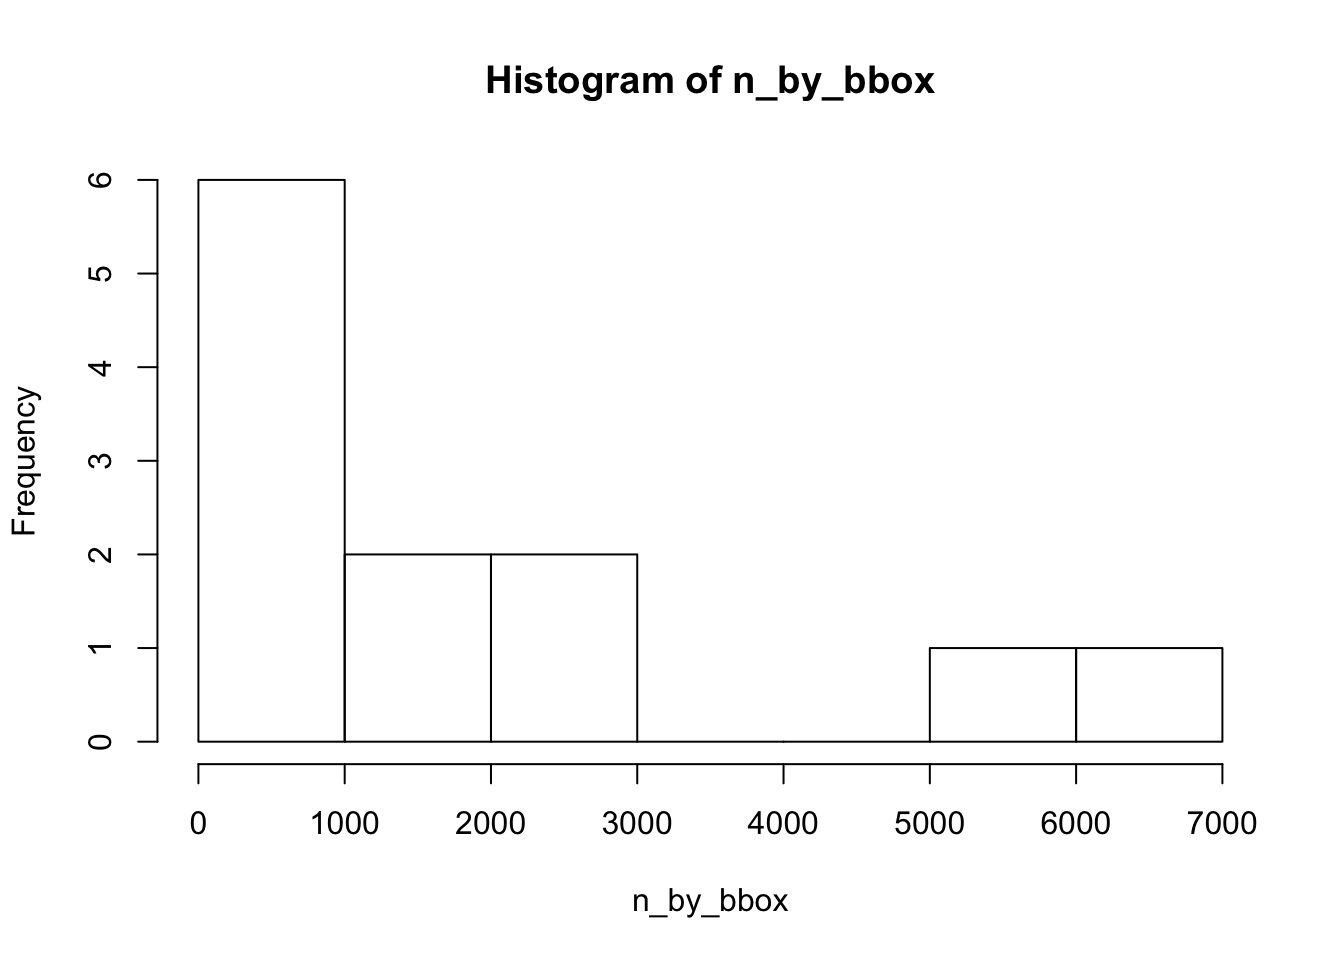
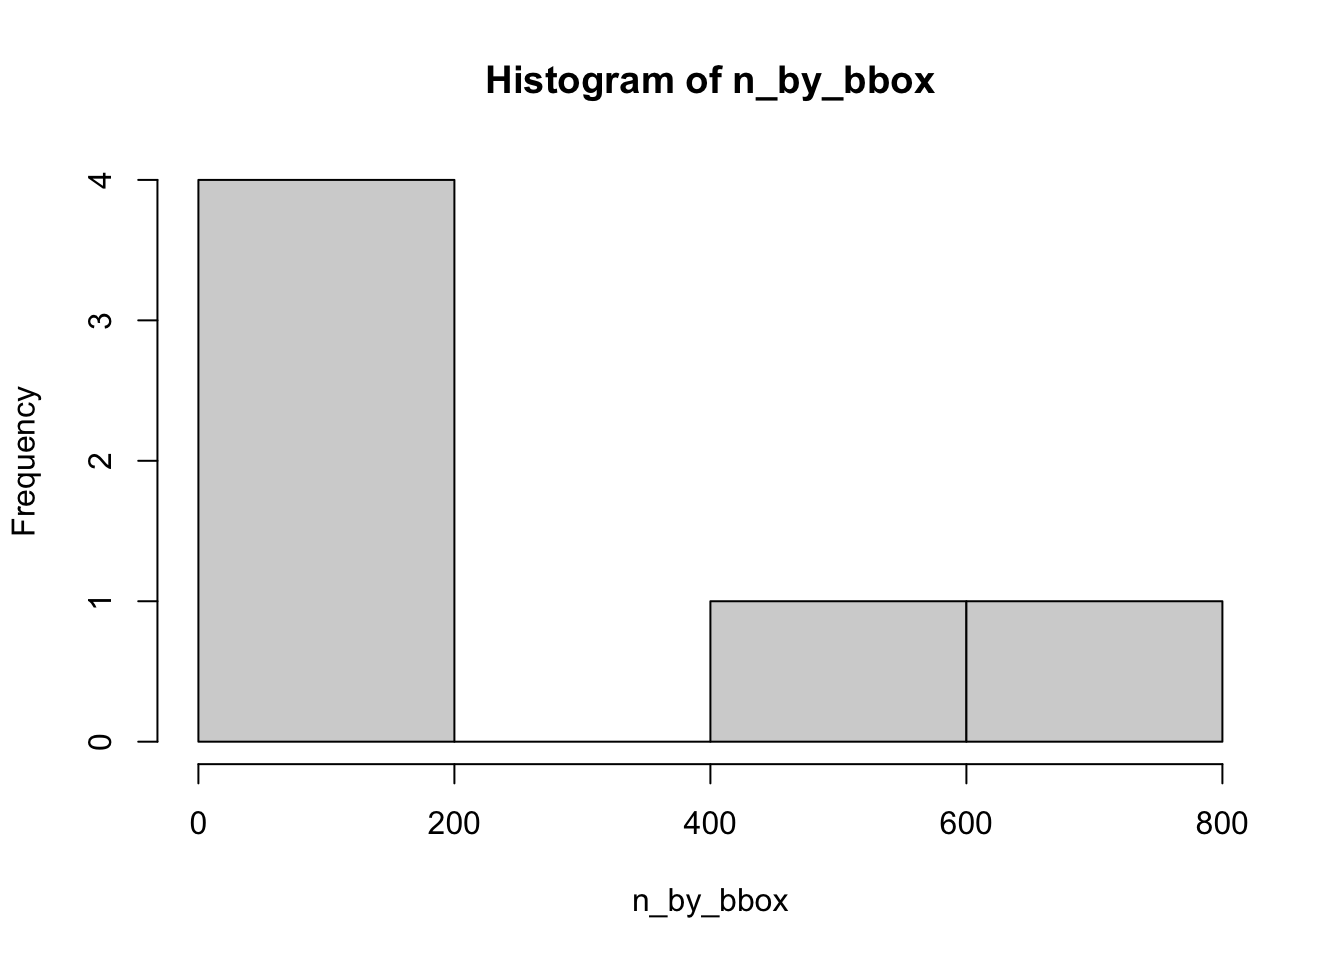
update README

diff --git a/README.md b/README.md
@@ -4,21 +4,31 @@ via API
 
 <!-- README.md is generated from README.Rmd. Please edit that file -->
 
-[![DOI](https://zenodo.org/badge/161494897.svg)](https://zenodo.org/badge/latestdoi/161494897)
+<a href="https://zenodo.org/badge/latestdoi/161494897"
+target="_blank"><img src="https://zenodo.org/badge/161494897.svg"
+alt="DOI" /></a>
 
 `wikimapR` is an R package for accessing the raw vector data from
-Wikimapia via official [Wikimapia API](http://wikimapia.org/api). Map
-data is returned as [Simple Features
-(`sf`)](https://cran.r-project.org/package=sf) objects with some of the
-object details included as nested `lists`.
+Wikimapia via official
+<a href="http://wikimapia.org/api" target="_blank">Wikimapia API</a>.
+Map data is returned as
+<a href="https://cran.r-project.org/package=sf" target="_blank">Simple
+Features (<code>sf</code>)</a> objects with some of the object details
+included as nested `lists`.
 
-WARNING: the package may NOT work for now because of the breaking change in the Wikimapia API. More details at: https://github.com/e-kotov/wikimapR/issues/2 . Using 'example' API key does not work, however everything seems to be working with your a private API key.
+WARNING: the package may NOT work for now because of the breaking change
+in the Wikimapia API. More details at
+<a href="https://github.com/e-kotov/wikimapR/issues/2"
+target="_blank">https://github.com/e-kotov/wikimapR/issues/2</a>. Using
+‘example’ API key does not seem to work, however everything seems to be
+working with private API keys.
 
 **This package is at a VERY alpha stage. Provided ‘as is’. Use with
 caution.**
 
-You may also want to try [a similar package for
-Python](https://github.com/plandex/wikimapia-api-py).
+You may also want to try
+<a href="https://github.com/plandex/wikimapia-api-py" target="_blank">a
+similar package for Python</a>.
 
 ### Installation
 
@@ -26,8 +36,8 @@ To install:
 
 ``` r
 # Install the development version
-# install.packages("devtools")
-devtools::install_github("e-kotov/wikimapR")
+# install.packages("remotes")
+remotes::install_github("e-kotov/wikimapR")
 ```
 
 To load the package and check the version:
@@ -35,35 +45,56 @@ To load the package and check the version:
 ``` r
 library(wikimapR)
 packageVersion("wikimapR")
-#> [1] '0.1.1'
+#> [1] '0.1.2'
+```
+
+Load additional packages:
+
+``` r
+library(sf)
+library(magrittr)
+library(dplyr)
+library(purrr)
+library(progress)
 ```
 
 ### Usage
 
-#### Choose a bbox
-
-Have a look at <https://boundingbox.klokantech.com> and choose a
-bounding box. For example: `49.990525,53.100579,50.37642,53.334931` for
-Samara and it’s surroundings.
+Set your API key. There is the API key ‘example’ that’s used by the
+testing page <a href="https://wikimapia.org/api/?action=examples"
+target="_blank">https://wikimapia.org/api/?action=examples</a>. It is
+limited to one request every 30 seconds. Get your own API key at
+<a href="https://wikimapia.org/api/?action=my_keys"
+target="_blank">https://wikimapia.org/api/?action=my_keys</a> to get up
+to 100 requests in 5 minutes.
 
 ``` r
-bbox <- c(49.990525,53.100579,50.37642,53.334931) # Samara
+# change to your own key
+set_wikimapia_api_key("your_key")
+# clear_wikimapia_api_keys() # you can also clear your API key to use 'example' key instead
+```
+
+#### Choose a bbox
+
+Have a look at <a href="https://boundingbox.klokantech.com"
+target="_blank">https://boundingbox.klokantech.com</a> and choose a
+bounding box. For example: `-1.617122,53.764541,-1.467519,53.831568` for
+Leeds and it’s surroundings.
+
+``` r
+bbox <- c(-1.669629,53.739816,-1.422465,53.869239) # Leeds
 ```
 
 #### Get the number of objects in this bounding box
 
-Use [`box`](http://wikimapia.org/api#oldbox) API function to get the
-number of features on your area of interest.
+Use <a href="http://wikimapia.org/api#oldbox"
+target="_blank"><code>box</code></a> API function to get the number of
+features in your area of interest.
 
 ``` r
 wm <- wm_get_from_bbox(x = bbox, get_location = FALSE, meta_only = TRUE)
-#> Warning in wm_get_from_bbox(x = bbox, get_location = FALSE, meta_only =
-#> TRUE): Using 'example' API key. This key can only be used for testing. The
-#> interval for using this key is 30 seconds. Get your own API key at http://
-#> wikimapia.org/api?action=create_key .
-# wm <- wm_get_from_bbox(x = bbox, get_location = F, wm_api_key = "XXXXXXX", object_count_only = T) # use with your own API key to perform more frequent requests and avoid the warning message
 wm$found
-#> [1] 21026
+#> [1] 1320
 ```
 
 Now we know how many objects we have in the bounding box.
@@ -82,22 +113,11 @@ areas with defaults tuned to cities like Moscow.
 
 ``` r
 small_bboxes <- subdivide_bbox(x = bbox, bbox_cell_size = 0.1, return_bbox_or_sf = "both")
-#> Linking to GEOS 3.7.2, GDAL 2.4.2, PROJ 5.2.0
-#> 12 bounding boxes created with approximate cell size of 6698x11129 meters.
+#> 6 bounding boxes created with approximate cell size of 6577x11120 meters.
 plot(small_bboxes$sf$geometry)
 ```
 
 <img src="man/figures/README-subdivide_bbox-1.png" width="672" />
-
-``` r
-str(small_bboxes, max.level = 1)
-#> List of 2
-#>  $ bbox:List of 12
-#>  $ sf  :Classes 'sf' and 'data.frame':   12 obs. of  2 variables:
-#>   ..- attr(*, "sf_column")= chr "geometry"
-#>   ..- attr(*, "agr")= Factor w/ 3 levels "constant","aggregate",..: NA
-#>   .. ..- attr(*, "names")= chr "fid"
-```
 
 In this example the bounding box cell size is in degrees (need to
 somehow fix that to work with meters across the globe). Default of 0.045
@@ -113,18 +133,13 @@ subdivision using precise metric, but this will do fine for now.
 
 Just to be sure that every bounding box that we generated has \<= 10 000
 objects, let us query all the bounding boxes. For the current example
-with 12 it will take about 6 minutes, as with “example” API key the
+with 6 it will take about 3 minutes, as with “example” API key the
 cool-down is about 30 seconds.
 
 ``` r
-pb <- dplyr::progress_estimated(length(small_bboxes$bbox)) # set the progress bar using dplyr
-
-objects_in_bboxes <- small_bboxes$bbox %>% purrr::map( ~ {
-  pb$tick()$print() # print progress
-  Sys.sleep(30) # wait for API required interval, sleep goes before the function itself for the map to correctly collect values in the list
-  wm_get_from_bbox(x = .x, get_location = FALSE) # get objects in every bbox, but no need to get the location for now
-  }
-)
+# get objects in every bbox, but no need to get the location for now
+objects_in_bboxes <- small_bboxes$bbox %>% purrr::map(
+  ~wm_get_from_bbox(x = .x, get_location = FALSE), .progress = T )
 ```
 
 Now we look at the histogram of the number of objects in the small
@@ -133,7 +148,7 @@ bounding boxes and the maximum value:
 ``` r
 n_by_bbox <- objects_in_bboxes %>% purrr::map_int(~ .x$meta$found) # extract the number of found objects for every bounding box
 max(n_by_bbox)
-#> [1] 6971
+#> [1] 718
 hist(n_by_bbox)
 ```
 
@@ -142,70 +157,74 @@ hist(n_by_bbox)
 Since the maximum is well within 10 000, we can proceed to collect the
 objects IDs and then download attributes for individual features. We
 have to download the detailed objects features one-by-one as
-[`box`](http://wikimapia.org/api#oldbox) API only returns object ID,
-name and URL. So the strategy for getting all object details is to make
-a list of object IDs using [`box`](http://wikimapia.org/api#oldbox) API
-and then use [`place.getbyid`](http://wikimapia.org/api#placegetbyid).
+<a href="http://wikimapia.org/api#oldbox"
+target="_blank"><code>box</code></a> API only returns object ID, name
+and URL. So the strategy for getting all object details is to make a
+list of object IDs using <a href="http://wikimapia.org/api#oldbox"
+target="_blank"><code>box</code></a> API and then use
+<a href="http://wikimapia.org/api#placegetbyid"
+target="_blank"><code>place.getbyid</code></a>.
 
 #### Create a list of IDs to fetch
 
 ``` r
 id_list <- objects_in_bboxes %>%
   purrr::map(~ .x$df$id) %>% # pull object IDs from individual bbox query results data.frames
-  do.call(c, .) # bind together
+  unlist() # bind together
 
 str(id_list)
-#>  chr [1:1117] "3441705" "12114255" "33569609" "12626690" "3449460" ...
+#>  chr [1:461] "1869857" "25258348" "14406815" "25257158" "25259631" ...
 head(id_list)
-#> [1] "3441705"  "12114255" "33569609" "12626690" "3449460"  "22644133"
+#> [1] "1869857"  "25258348" "14406815" "25257158" "25259631" "14406851"
 ```
 
-Now we have a list of 1117 object IDs that we want to get the details
+Now we have a list of 461 object IDs that we want to get the details
 for.
 
 #### Get detailed data for Wikimapia objects
 
-Let's take just 3 first objects for this example. It will take 1.5 minutes to fetch them with all the details using the example API.
+Let’s take just 3 first objects for this example. It will take up to 1.5
+minutes to fetch them with all the details using the ‘example’ API.
 
 ``` r
 short_list <- id_list[1:3]
-wm_objects <- wm_get_by_id(x = short_list)
+wm_objects <- wm_get_by_id(ids = short_list)
 ```
 
-#### We have the objects\!
+#### We have the objects!
 
 ``` r
 str(wm_objects, max.level = 1, nchar.max = 50)
-#> Classes 'sf', 'data.table' and 'data.frame': 3 obs. of  25 variables:
-#>  $ id                    : int  3441705 12114255 33569609
+#> Classes 'sf' and 'data.frame':   3 obs. of  25 variables:
+#>  $ id                    : int  1869857 25258348 14406815
 #>  $ object_type           : int  1 1 1
-#>  $ language_id           : int  1 1 1
-#>  $ language_iso          : chr  "ru" "ru" "ru"
-#>  $ language_name         : chr  "Russian" "Russian" "Russian"
+#>  $ language_id           : int  0 0 0
+#>  $ language_iso          : chr  "en" "en" "en"
+#>  $ language_name         : chr  "English" "English" "English"
 #>  $ urlhtml               : chr  "<a class=\"wikimapia-link\" href="| __truncated__ "<a class=\"wikimapia-link\" href="| __truncated__ "<a class=\"wikimapia-link\" href="| __truncated__
-#>  $ title                 : chr  "Остров Поджабный (Рождественский)" "Самарский район" "Протока Проран"
-#>  $ description           : chr  "Остров в юго-восточной части Сама"| __truncated__ "Самарский район - один из централ"| __truncated__ "На протоке на острове Поджабном р"| __truncated__
-#>  $ wikipedia             : chr  "https://ru.wikipedia.org/wiki/Поджабный_остров" "http://ru.wikipedia.org/wiki/Сама"| __truncated__ NA
+#>  $ title                 : chr  "Pudsey" "Farnley" "Morley"
+#>  $ description           : chr  "Pudsey is a market town in West Y"| __truncated__ "District of the city of Leeds." "The small West Yorkshire town of "| __truncated__
+#>  $ wikipedia             : chr  "http://en.wikipedia.org/wiki/Pudsey" "http://en.wikipedia.org/wiki/Farnley,_Leeds" "http://en.wikipedia.org/wiki/morley"
 #>  $ is_building           : logi  FALSE FALSE FALSE
 #>  $ is_region             : logi  FALSE FALSE FALSE
 #>  $ is_deleted            : logi  FALSE FALSE FALSE
 #>  $ parent_id             : chr  "0" "0" "0"
-#>  $ x                     : chr  "500164606" "500852939" "500122546"
-#>  $ y                     : chr  "531864365" "531810489" "532005295"
-#>  $ pl                    : num  45136 22233 21906
+#>  $ x                     : chr  "-16639084" "-16233262" "-15956783"
+#>  $ y                     : chr  "537924232" "537853660" "537441159"
+#>  $ pl                    : num  32078 25832 22310
 #>  $ is_protected          : logi  FALSE FALSE FALSE
-#>  $ user_id               : Factor w/ 2 levels "2236373","1556590": 1 2 1
-#>  $ user_name             : Factor w/ 2 levels "Onsk","Hamster32": 1 2 1
-#>  $ date                  : Factor w/ 3 levels "1450154348","1422482102",..: 1 2 3
-#>  $ deletion_state        : Factor w/ 1 level "FALSE": 1 1 1
-#>  $ is_in_deletion_queue  : Factor w/ 1 level "FALSE": 1 1 1
-#>  $ is_in_undeletion_queue: Factor w/ 1 level "FALSE": 1 1 1
+#>  $ user_id               : chr  "904949" "904949" "539863"
+#>  $ user_name             : chr  "Timea" "Timea" "jagpalpur"
+#>  $ date                  : chr  "1427742742" "1427742836" "1258319330"
+#>  $ deletion_state        : chr  "FALSE" "FALSE" "FALSE"
+#>  $ is_in_deletion_queue  : chr  "FALSE" "FALSE" "FALSE"
+#>  $ is_in_undeletion_queue: chr  "FALSE" "FALSE" "FALSE"
 #>  $ details               :List of 3
 #>  $ geometry              :sfc_POLYGON of length 3; first list element: List of 1
-#>   ..- attr(*, "class")= chr  "XY" "POLYGON" "sfg"
+#>   ..- attr(*, "class")= chr [1:3] "XY" "POLYGON" "sfg"
 #>  - attr(*, "sf_column")= chr "geometry"
 #>  - attr(*, "agr")= Factor w/ 3 levels "constant","aggregate",..: NA NA NA NA NA NA NA NA NA NA ...
-#>   ..- attr(*, "names")= chr  "id" "object_type" "language_id" "language_iso" ...
+#>   ..- attr(*, "names")= chr [1:24] "id" "object_type" "language_id" "language_iso" ...
 ```
 
 ##### We can now plot them
@@ -220,80 +239,77 @@ plot(wm_objects$geometry)
 
 ``` r
 names(wm_objects)
-#>  [1] "id"                     "object_type"           
-#>  [3] "language_id"            "language_iso"          
-#>  [5] "language_name"          "urlhtml"               
-#>  [7] "title"                  "description"           
-#>  [9] "wikipedia"              "is_building"           
-#> [11] "is_region"              "is_deleted"            
-#> [13] "parent_id"              "x"                     
-#> [15] "y"                      "pl"                    
-#> [17] "is_protected"           "user_id"               
-#> [19] "user_name"              "date"                  
-#> [21] "deletion_state"         "is_in_deletion_queue"  
-#> [23] "is_in_undeletion_queue" "details"               
+#>  [1] "id"                     "object_type"            "language_id"           
+#>  [4] "language_iso"           "language_name"          "urlhtml"               
+#>  [7] "title"                  "description"            "wikipedia"             
+#> [10] "is_building"            "is_region"              "is_deleted"            
+#> [13] "parent_id"              "x"                      "y"                     
+#> [16] "pl"                     "is_protected"           "user_id"               
+#> [19] "user_name"              "date"                   "deletion_state"        
+#> [22] "is_in_deletion_queue"   "is_in_undeletion_queue" "details"               
 #> [25] "geometry"
 ```
 
 ##### Most of the details are currently in a nested list for every object
 
-You can use [purrr](https://github.com/tidyverse/purrr) and/or
-[rlist](https://github.com/renkun-ken/rlist) packages to pull any of the
-details from these nested lists.
+You can use
+<a href="https://github.com/tidyverse/purrr" target="_blank">purrr</a>
+and/or
+<a href="https://github.com/renkun-ken/rlist" target="_blank">rlist</a>
+packages to pull any of the details from these nested lists.
 
 ``` r
 str(wm_objects$details[[1]], max.level = 1)
 #> List of 5
 #>  $ tags              :List of 1
-#>  $ photos            :List of 4
-#>  $ comments          :List of 1
+#>  $ photos            : list()
+#>  $ comments          : list()
 #>  $ location          :List of 15
-#>  $ availableLanguages:List of 2
+#>  $ availableLanguages:List of 1
 ```
 
 ### To-Do List
 
-  - Rewrite `subdivide_bbox()` to accept metric values for bbox
-    dimensions (not critical, but may be useful for other projects)
+- Rewrite `subdivide_bbox()` to accept metric values for bbox dimensions
+  (not critical, but may be useful for other projects)
 
-  - Create a few more helper functions to abstract the user from the
-    calls to `purrr` for simple things like getting the number of found
-    objects, or for getting number of objects per bounding box (see
-    examples above in the Usage section)
+- Create a few more helper functions to abstract the user from the calls
+  to `purrr` for simple things like getting the number of found objects,
+  or for getting number of objects per bounding box (see examples above
+  in the Usage section)
 
-  - Create a hidden environment variable for storing API key and using
-    it automatically in the package functions
+- Create a hidden environment variable for storing API key and using it
+  automatically in the package functions
 
-  - Implement the rest of the Wikimapia API functions
+- Implement the rest of the Wikimapia API functions
 
-  - Fix bugs if any
+- Fix bugs if any
 
-  - Make code more robust
+- Make code more robust
 
-  - Write unit tests
+- Write unit tests
 
-  - Your suggestions are welcome via GitHub issues for this package
+- Your suggestions are welcome via GitHub issues for this package
 
-  - Submit the package to CRAN someday..?
+- Submit the package to CRAN someday..?
 
 ### Citation
 
 ``` r
 citation ("wikimapR")
-#> 
 #> To cite package 'wikimapR' in publications use:
 #> 
-#>   Egor Kotov (2018). wikimapR: Import Wikimapia Data as Simple
-#>   Features via API. R package version 0.1.1.
-#>   https://github.com/e-kotov/wikimapR/
+#>   Kotov E (2023). _wikimapR: Import Wikimapia Data as Simple Features
+#>   via API_. R package version 0.1.2,
+#>   <https://github.com/e-kotov/wikimapR/>.
 #> 
 #> A BibTeX entry for LaTeX users is
 #> 
 #>   @Manual{,
 #>     title = {wikimapR: Import Wikimapia Data as Simple Features via API},
 #>     author = {Egor Kotov},
-#>     year = {2018},
-#>     note = {R package version 0.1.1},
+#>     year = {2023},
+#>     note = {R package version 0.1.2},
 #>     url = {https://github.com/e-kotov/wikimapR/},
 #>   }
 ```
